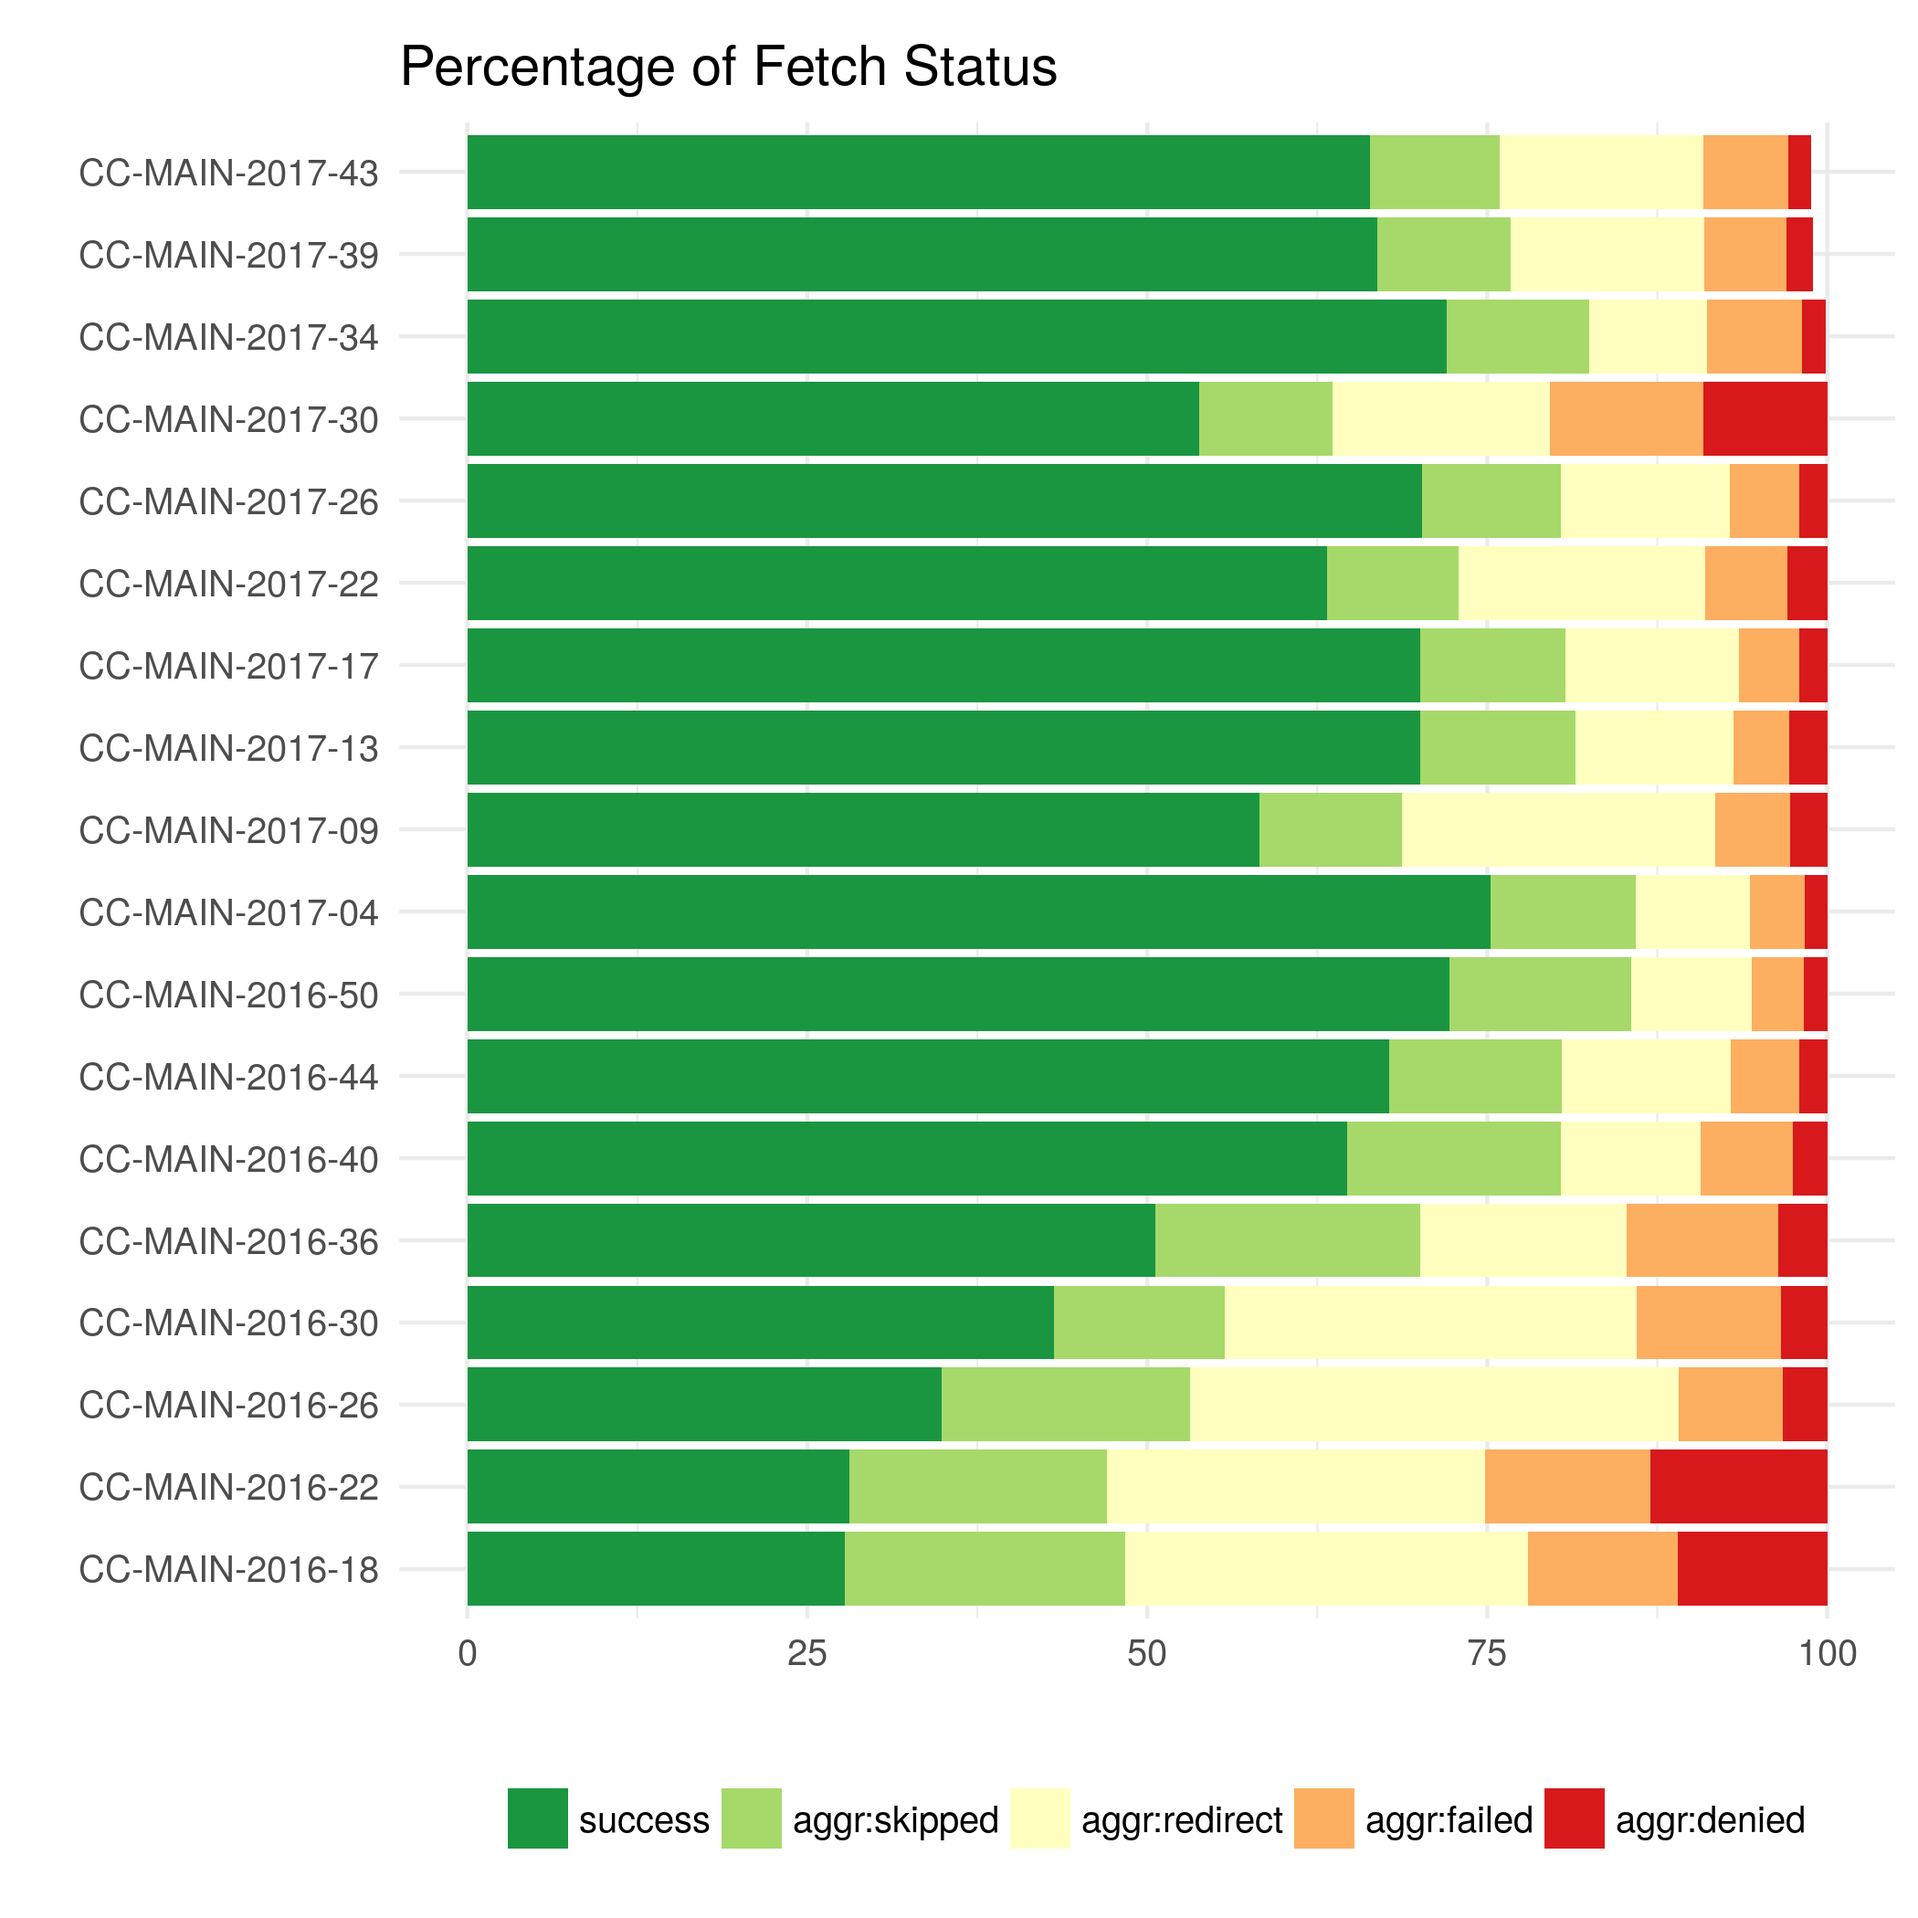
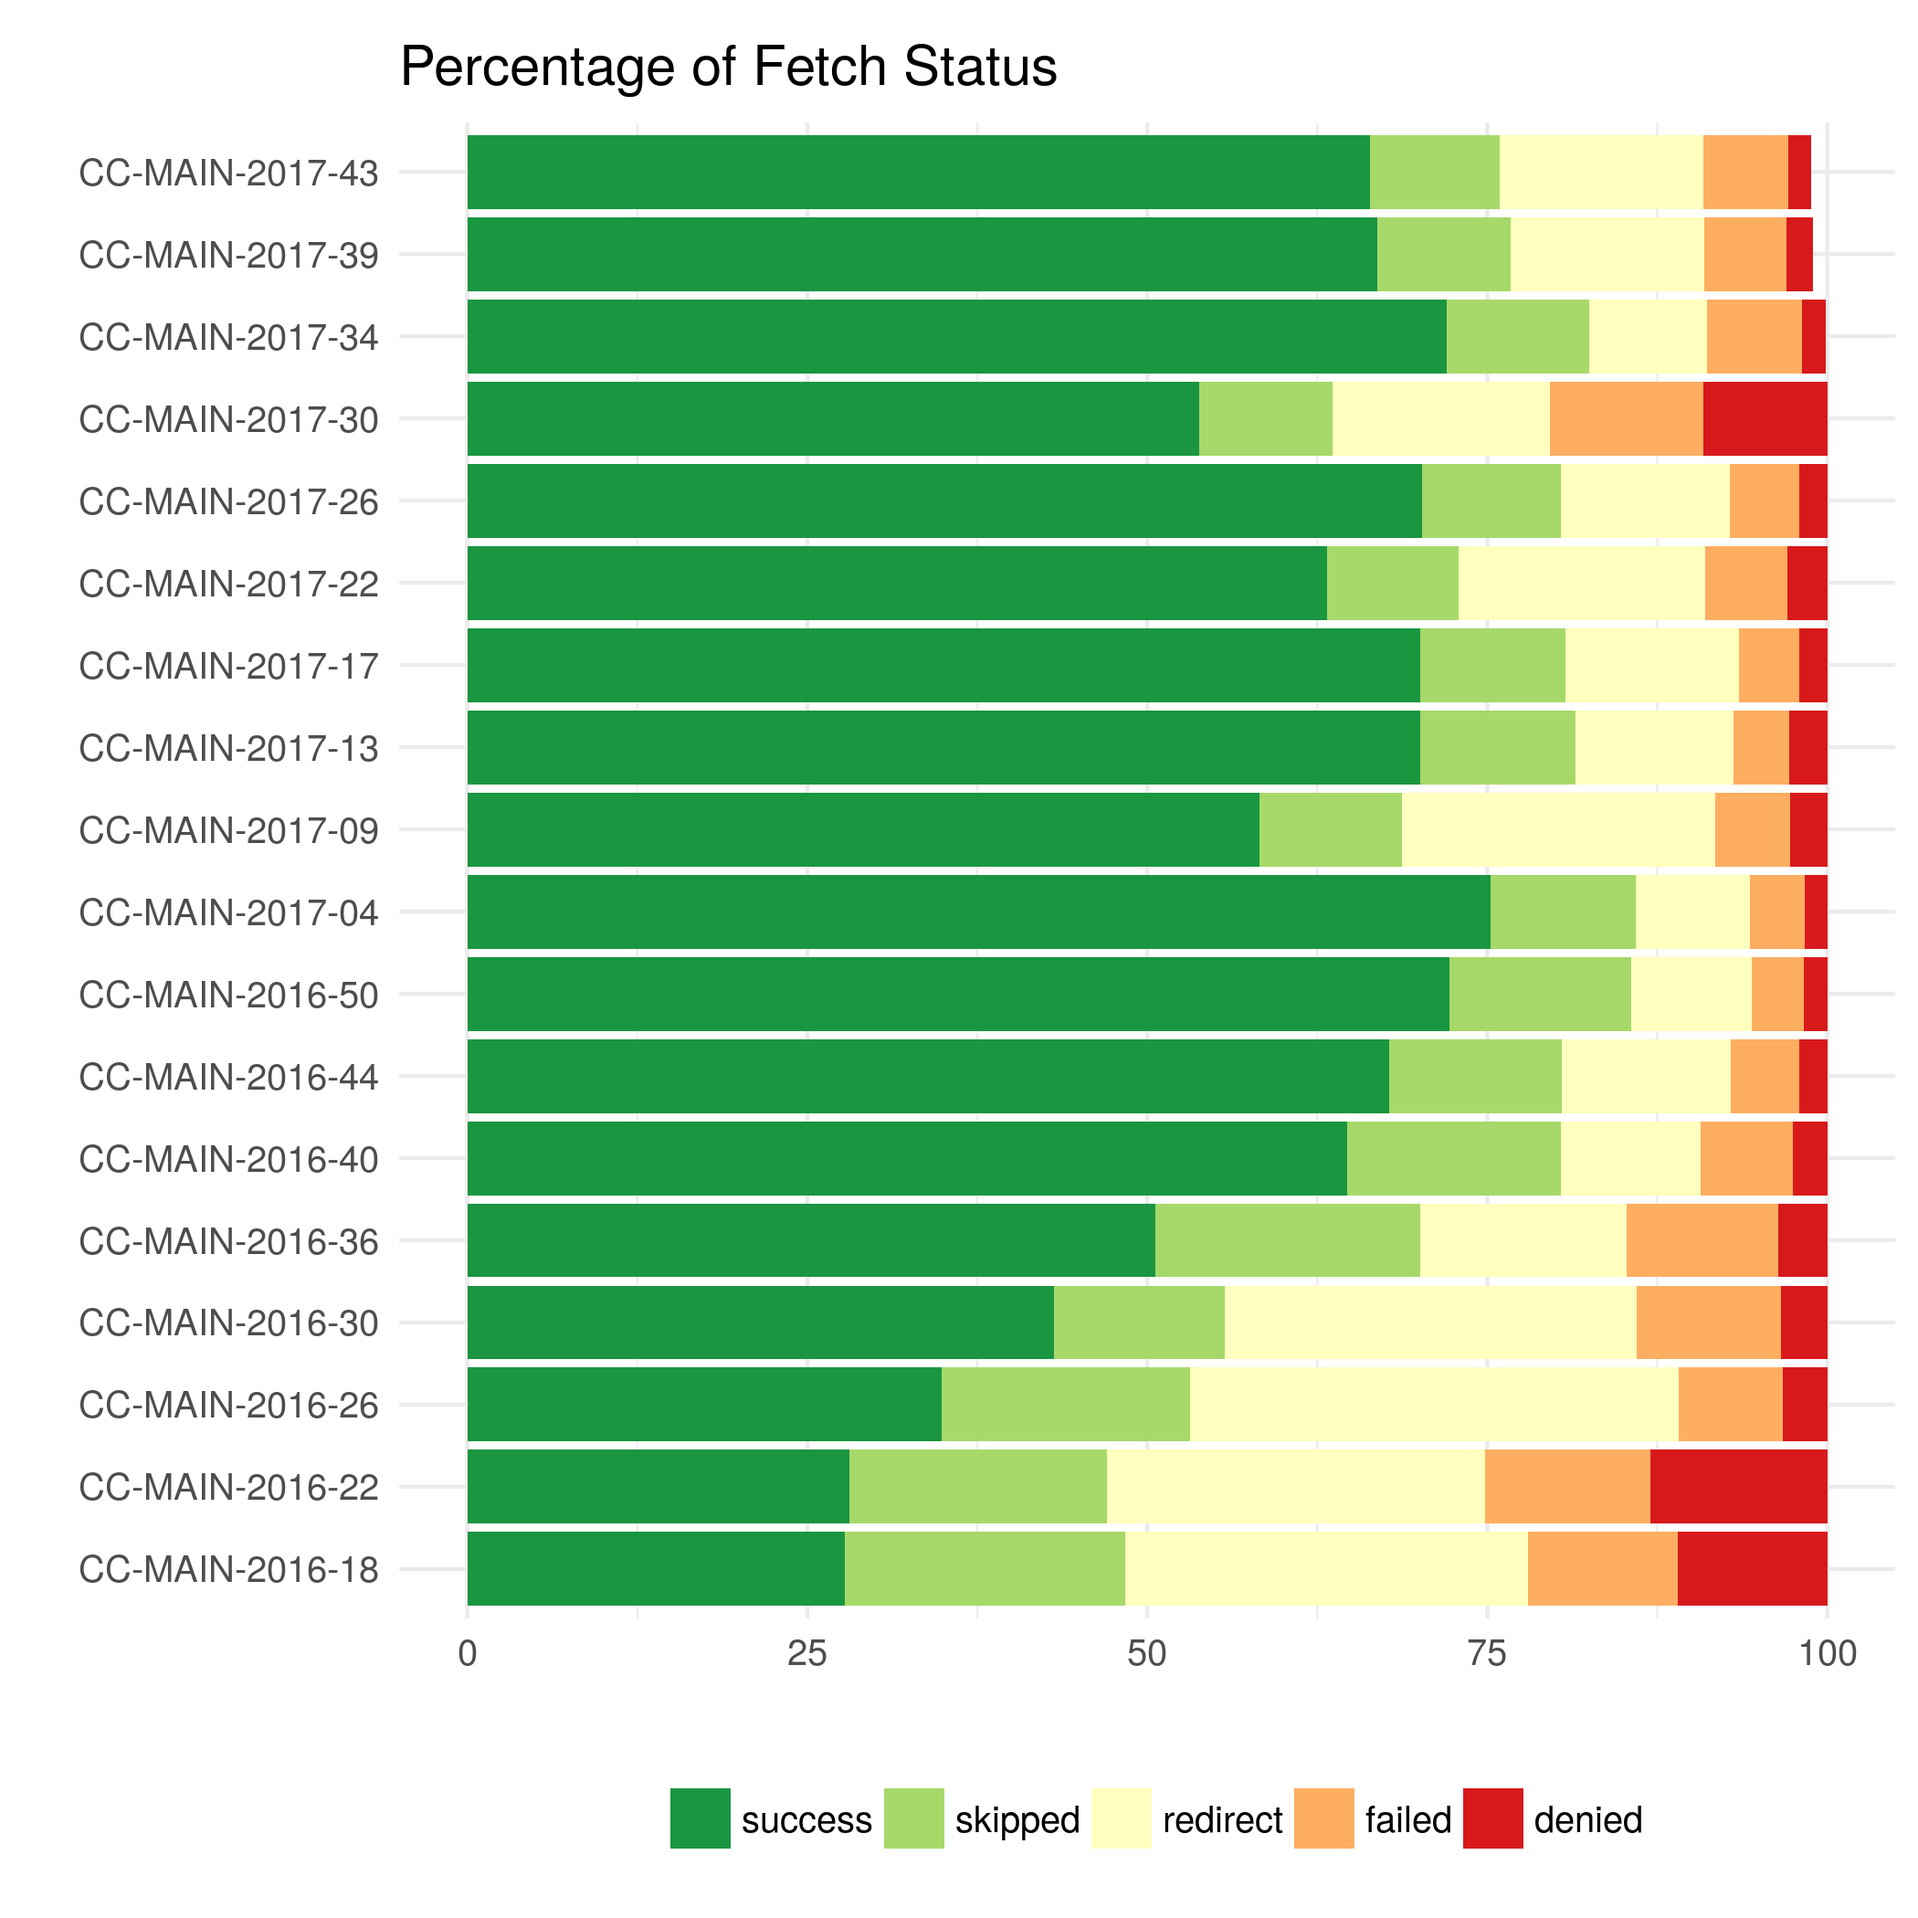
fix legend crawler metrics

Changed region(s): [[0.2476, 0.9286, 0.619, 0.9905], [0.7119, 0.9286, 0.9286, 0.9905]]

diff --git a/plot/crawler_metrics.py b/plot/crawler_metrics.py
@@ -59,7 +59,7 @@ class CrawlerMetrics(CrawlSizePlot):
 
     @staticmethod
     def row2title(row):
-        row = re.sub('(?<=^fetch)er|^generator:', '', row)
+        row = re.sub('(?<=^fetch)er(?::aggr)?|^generator:', '', row)
         row = re.sub('[:_]', ' ', row)
         if row == 'page':
             row = 'pages released'
@@ -88,8 +88,8 @@ class CrawlerMetrics(CrawlSizePlot):
         if len(row_filter) > 0:
             data = data[data['type'].isin(row_filter)]
         for value in row_filter:
-            if re.search('^fetcher:', value):
-                replacement = re.sub('^fetcher:', '', value)
+            if re.search('^fetcher:(?:aggr:)?', value):
+                replacement = re.sub('^fetcher:(?:aggr:)?', '', value)
                 data.replace(to_replace=value, value=replacement, inplace=True)
         # print(data)
         p = ggplot2.ggplot(data) \
